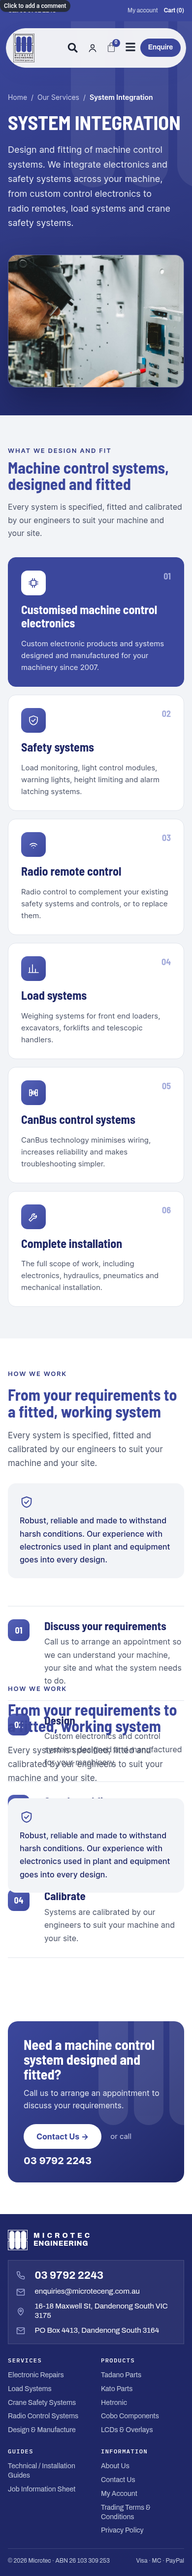
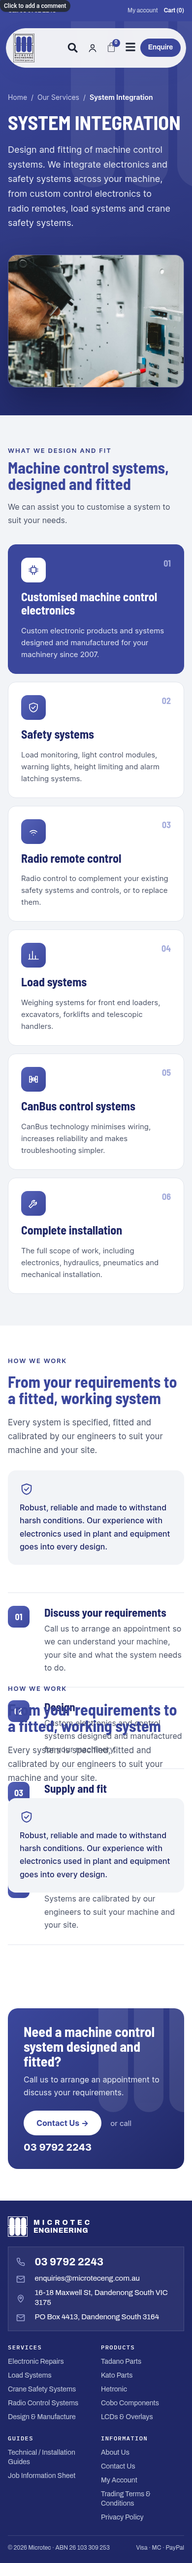
Stop the Design / System Integration intro column sticking once the columns stack
The build now reads base.css from the repo rather than the scratch copy.

Claude-Session: https://claude.ai/code/session_01MjuF5y9GywKpULBg13vquR

diff --git a/wp-build/theme/assets/css/mt-pages.css b/wp-build/theme/assets/css/mt-pages.css
@@ -76,6 +76,9 @@ body:has(.mtp-hero) #masthead { margin-bottom: -98px; position: relative; z-inde
 /* Header: no "Home" link while on the homepage (client feedback); shown on every other page.
    Covers the desktop and phone menus — WordPress marks the front-page item .menu-item-home. */
 body.home #masthead .menu-item-home { display: none !important; }
+/* The sticky intro column (Design Services, System Integration) only makes sense side by side;
+   once the two columns stack it would slide over the list below. */
+@media (max-width: 999px) { .mtp.mtp.mtp.mtp .m51de31 { position: static; } }
 
 .mtp.mtp.mtp .m75245e { position: relative; background: linear-gradient(160deg, rgb(59, 71, 156) 0%, rgb(46, 56, 128) 55%, rgb(31, 39, 102) 100%); color: rgb(255, 255, 255); overflow: hidden }
 .mtp.mtp.mtp .mbefb19 { position: absolute; right: -60px; top: -80px; display: flex; gap: 18px; opacity: 0.07; pointer-events: none }

diff --git a/wp-build/scripts/base.css b/wp-build/scripts/base.css
@@ -76,3 +76,6 @@ body:has(.mtp-hero) #masthead { margin-bottom: -98px; position: relative; z-inde
 /* Header: no "Home" link while on the homepage (client feedback); shown on every other page.
    Covers the desktop and phone menus — WordPress marks the front-page item .menu-item-home. */
 body.home #masthead .menu-item-home { display: none !important; }
+/* The sticky intro column (Design Services, System Integration) only makes sense side by side;
+   once the two columns stack it would slide over the list below. */
+@media (max-width: 999px) { .mtp.mtp.mtp.mtp .m51de31 { position: static; } }

diff --git a/wp-build/scripts/build.py b/wp-build/scripts/build.py
@@ -317,7 +317,7 @@ for name, inactive, active in cyc_css:
     for mq, body in level_css(name, active).items():
         by_mq[mq].append(f'{P} .is-active.{name}, {P} .is-active .{name} {{ {body} }}')
 
-css = [open(S + '/scripts/base.css').read()]
+css = [open(os.path.join(os.path.dirname(os.path.abspath(__file__)), 'base.css')).read()]
 for mq in MQ:
     rules = list(dict.fromkeys(by_mq[mq]))
     if not rules: continue
